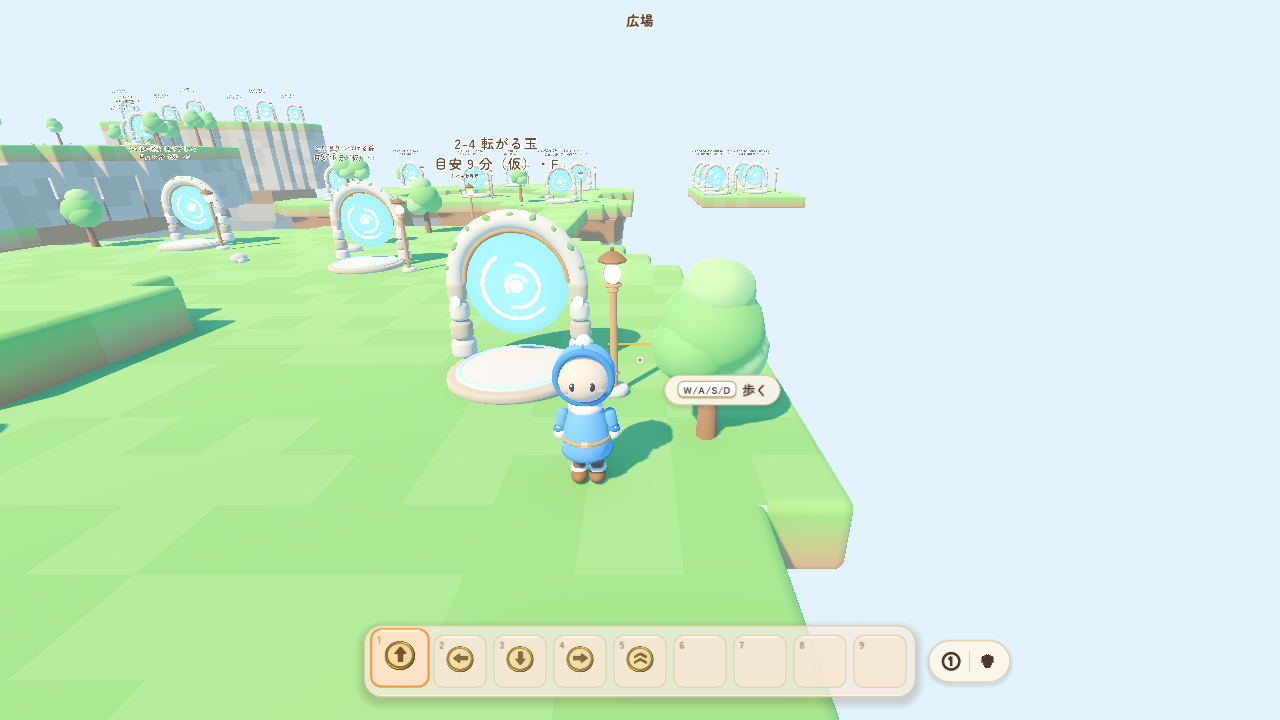
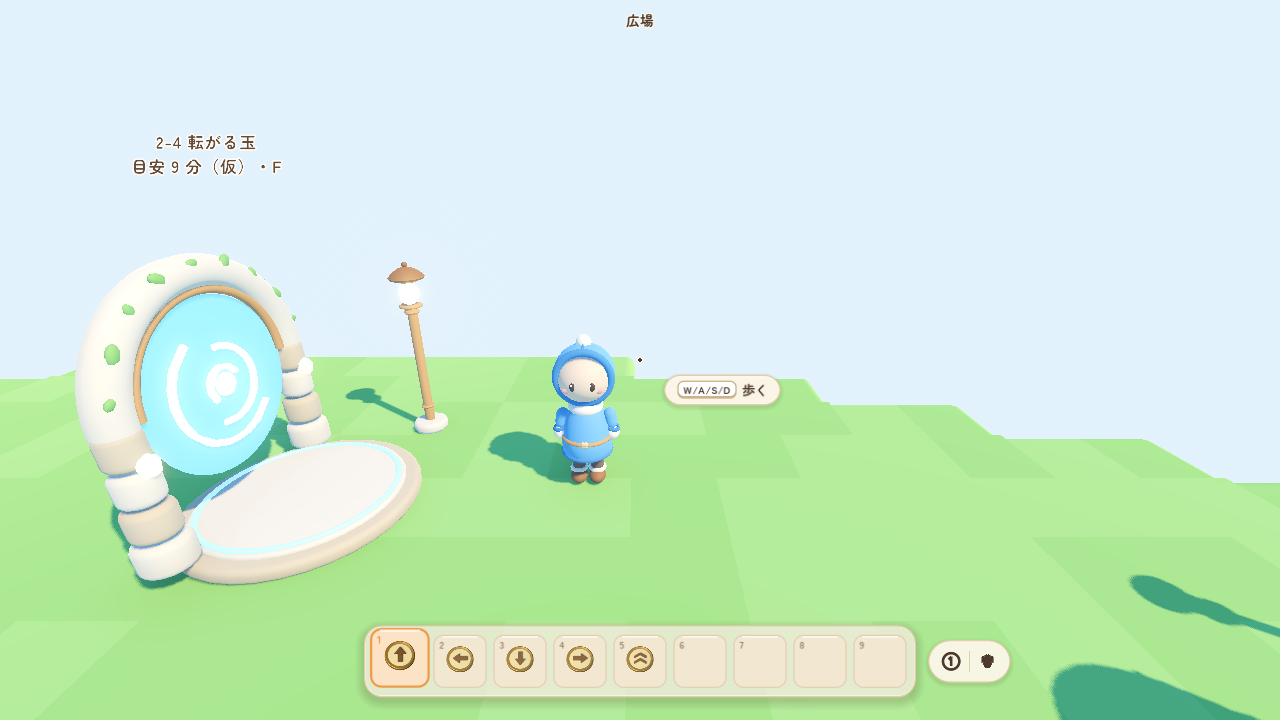
ポータルの前に戻った直後の画面を直す: カメラを門から離し、門の文字を近くで大きくしない
まとめ役の指摘: 戻った直後の portal-return.png で、門が画面の右下をふさぎ、門の上の文字が画面の上に大きく出ていた。
三人称のカメラ（人の 5.5 m 後ろ）が、ポータルに背を向けた人の後ろ＝門の中・すぐ後ろに入っていたため。
- 体と視点の向き（return_view_yaw）を、並ぶ向きから斜めに回す。どの人のカメラもどの門からも 5.5 m 以上、
  カメラから人への視線も門から 2.5 m 以上離れ、門が人の横に見える向きを先に選ぶ。離せない門（寄り道の詰まった門）は
  立ち位置を 10 m まで遠くに探す。全部の門で確かめるテストを足した
- 立ち位置・カメラ・視線の上に飾りの木を置かない
- 門の上の文字は、カメラから 8 m より近いと画面での大きさを止め、3.5 m より近いと薄くして 2 m で消す
- portal-return.png・portal-return-look.png を撮り直し、ADR 0020 に書き足した

Claude-Session: https://claude.ai/code/session_01FxaUCKb9CY6j4JRBpmrXar

diff --git a/docs/adr/0020-portal-return-objectives-and-pause-menu.md b/docs/adr/0020-portal-return-objectives-and-pause-menu.md
@@ -20,12 +20,21 @@
      今までどおり出現地点。
    - 立ち位置（`PortalSpots`。`Overworld.build` がポータルごとに決める）: 4 人分の足もとが全部ポータルと同じ高さの地面で、
      まわり 0.35 m も地面（縁で落ちない）、壁・ブロックにかからず、どの入口の箱（0.45 m 広げた箱）の外。
-     ポータルの正面の先 → 斜め前 → 横 → 斜め後ろ → 後ろの順に、きょり 3〜5 m で探す。並びは出現地点と同じ 1 m おきの
+     ポータルの正面の先 → 斜め前 → 横 → 斜め後ろ → 後ろの順に、きょり 3〜5 m（カメラが門から離せないときだけ 10 m まで）で探す。並びは出現地点と同じ 1 m おきの
      横一列（協力中は 1 人ずつ別の場所。重ならない）、狭いところは 2 列。その先 3 m にも地面がある向きを先に選ぶ
-     （崖の縁に向かって立たない）。いまの 57 のポータルでは 31 が正面の先、残りは正面の先が谷・庭の壁・隣のポータルなので
-     横や斜め。
-   - 向き: ポータルから立ち位置への向き（ポータルに背を向けて広場の側を見る）。体とカメラの両方を向ける。協力中は
-     ホストが決め、参加者の画面へは位置と一緒に向きを送る（`_moved(at, yaw)`）。
+     （崖の縁に向かって立たない）。多くのポータルは正面の先、正面の先が谷・庭の壁・隣のポータルなら
+     横や斜め。寄り道のワールドの詰まった門（7 つ）は 5.5〜10 m 先。
+   - 向き（`return_view_yaw`）: 並ぶ向き（ポータルに背を向けて広場の側。`return_yaw`）から 60〜90 度ほど斜めに回し、
+     体とカメラの両方を向ける。三人称のカメラは人の 5.5 m 後ろなので、まっすぐ広場を向くとカメラが門の中・すぐ後ろに入り、
+     門と門の上の文字が画面をふさいだ（2026-11-21 のまとめ役の指摘・最初の `portal-return.png`）。どの人のカメラも、
+     どの門からも 5.5 m 以上（門の台の半径 1.15 m ＋奥行き＋ゆとり）、カメラから人への視線も門から 2.5 m 以上離れ、
+     門が画面の横に見える（「いまこの門から出てきた」）向きを先に選ぶ。カメラの下が高い壁（ばねで引き寄せられる）の
+     向きも避ける。門には当たり判定が無いのでカメラのばね（地形だけを見る）が門で縮むことは無く、カメラが門の中に
+     入らないことは立ち位置と向きで保証する（`test_the_camera_after_a_return_stays_clear_of_every_arch`）。
+     立ち位置・カメラ・その間の視線の上には飾りの木を置かない（`OverworldScenery`）。協力中はホストが決め、参加者の
+     画面へは位置と一緒に向きを送る（`_moved(at, yaw)`）。
+   - 門の上の文字（`OverworldPortal`。Label3D の看板）は、カメラから 8 m より近いと画面での大きさを止め（近づくほど
+     小さく描く）、3.5 m より近いと薄くして 2 m で消す。中くらいのきょりではこれまでどおり読める。
    - 広場が育っても（建物・住む生き物）立ち位置は変わらない。建物・置物は当たり判定が無いので、ポータルの場所と向きと
      地形だけで決まる。
    - **すぐ入り直さない**: 立ち位置は入口の箱の外なので、F を押しただけでは入らない。加えて、戻ってから
@@ -90,7 +99,7 @@
 
 ## まだやっていないこと・仮の点
 
-- 数値はすべて仮: 入り直さない 1.5 秒、大きく出す 3 秒、立ち位置のきょり 3〜5 m・先の地面 3 m、投票の 30 秒。
+- 数値はすべて仮: 入り直さない 1.5 秒、大きく出す 3 秒、立ち位置のきょり 3〜5 m（最大 10 m）・先の地面 3 m、カメラと門 5.5 m・視線と門 2.5 m、文字の大きさを止める 8 m・消す 3.5〜2 m、投票の 30 秒。
 - 横や斜めに立つポータル（26）は、正面の先の地形を広げればまっすぐ前に立てる。地方の形を直すときに見直す。
 - 印は描いた記号（どうぶつの顔・箱・鐘・時計つきの鐘・矢印・旗）。世界観の絵柄が決まったら差し替える。
 - 「出る」「最初から」の投票は HUD の上の札（`PartyBanner`）には出していない（全員の画面への知らせだけ）。
